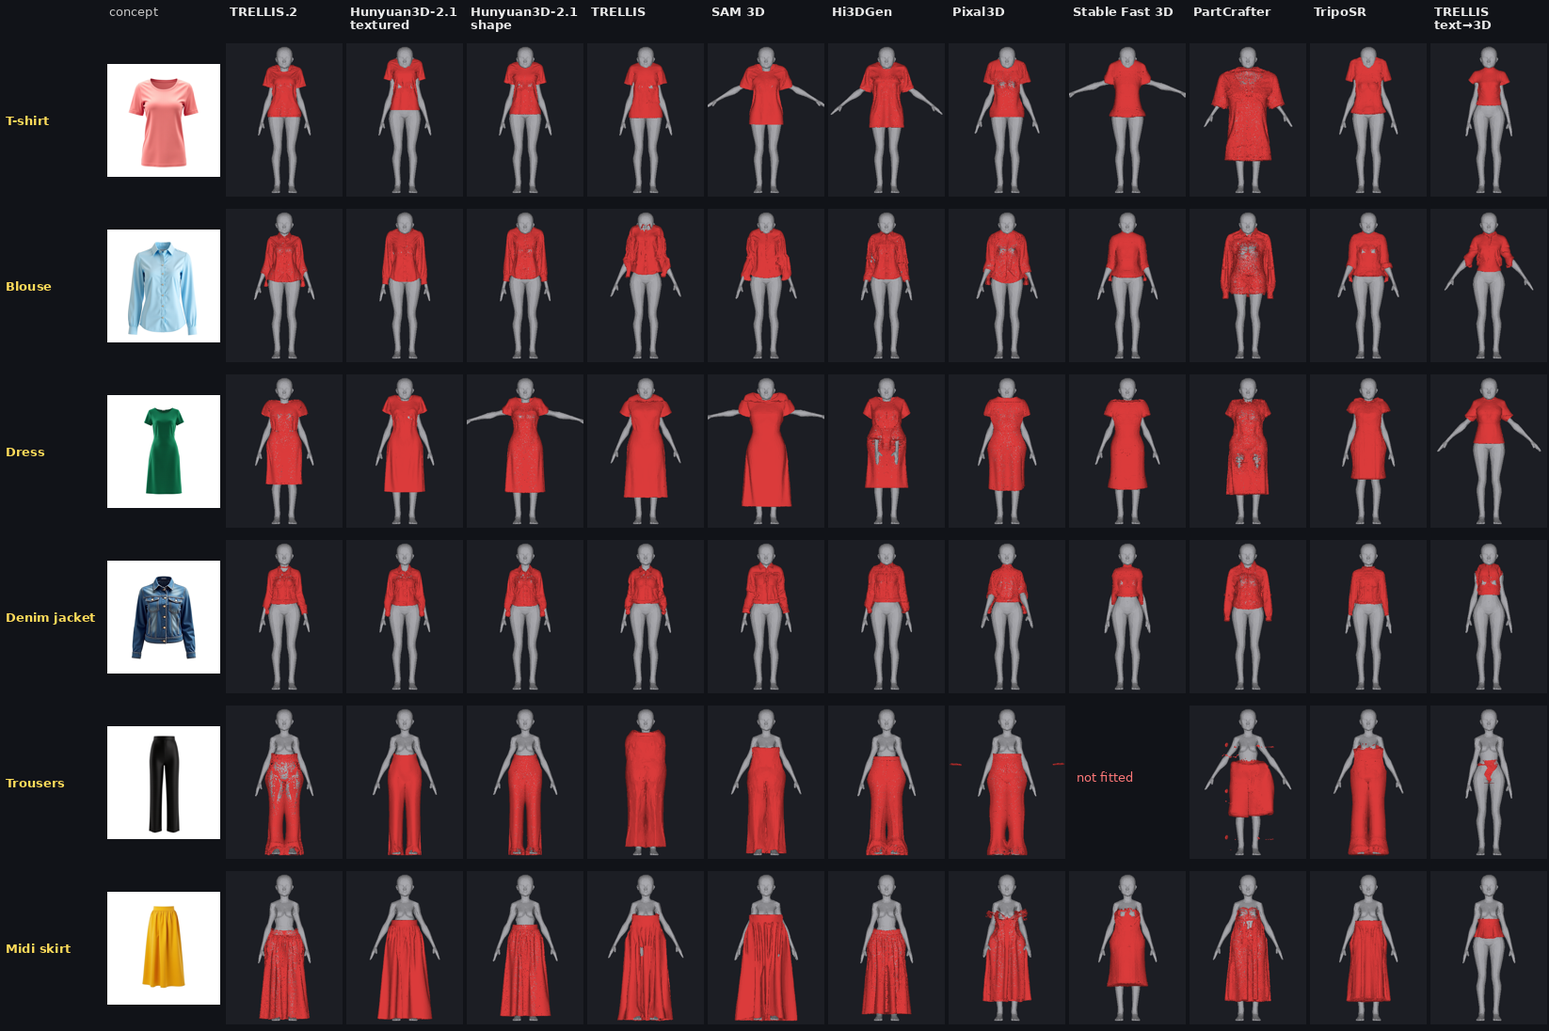
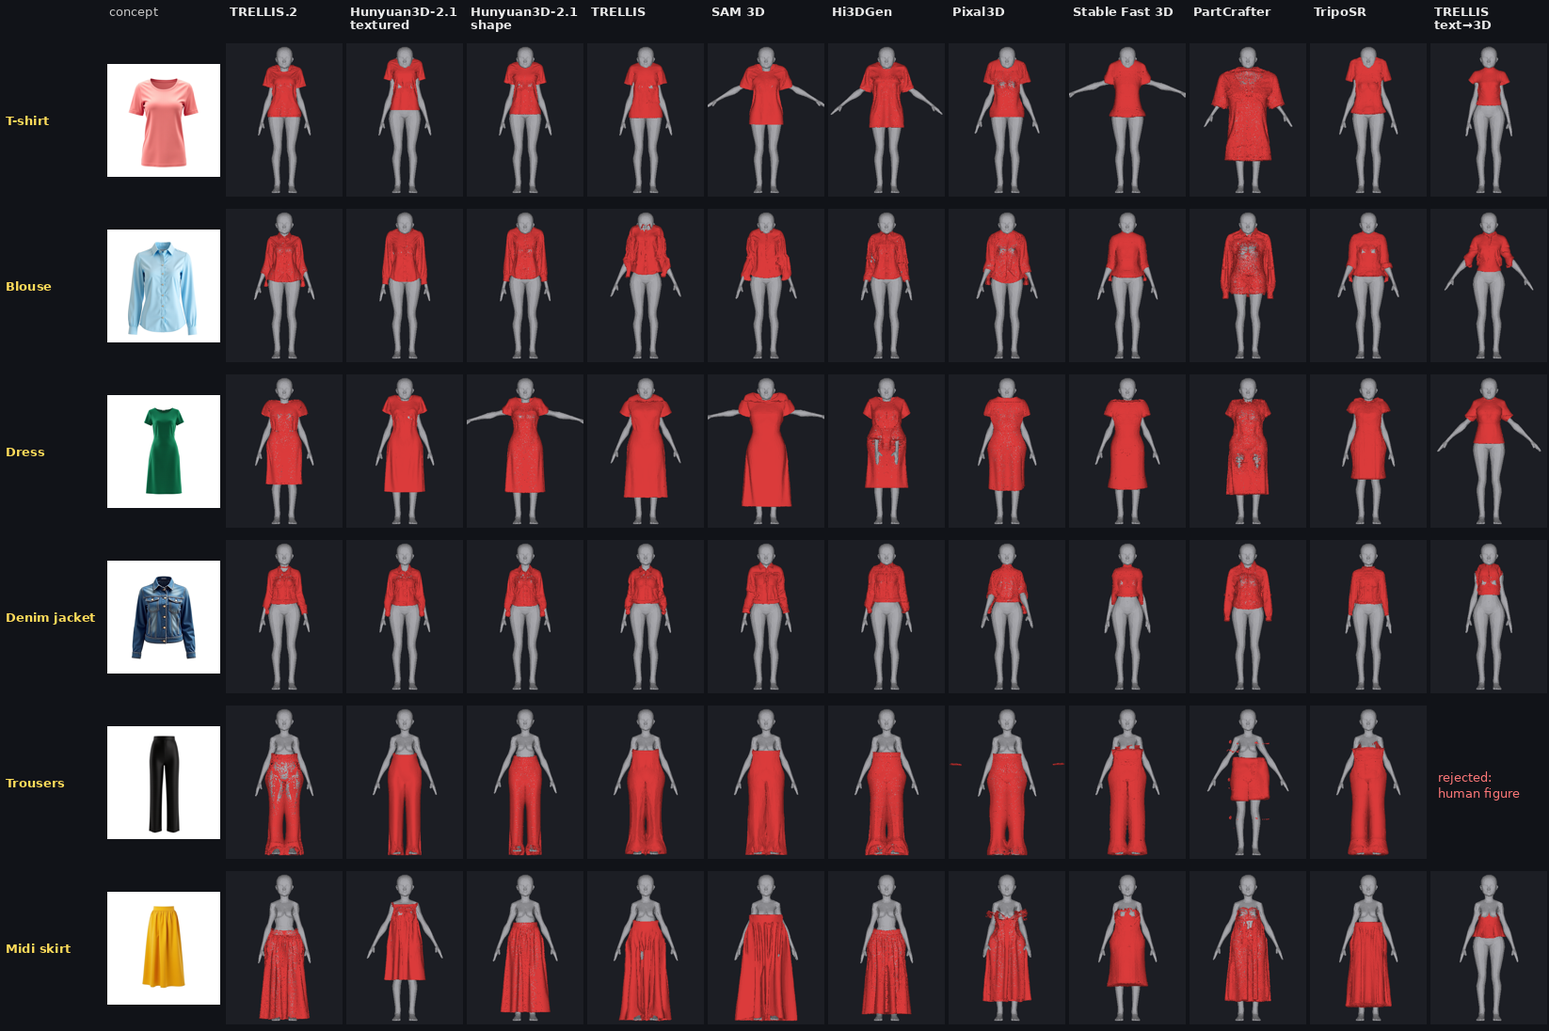
Engine guide (EN/TR) with UltraTex; README and licences updated
- docs/showcase/engine-guide/README.md: every engine on 12 garments + the red dress, dressed
  automatically with the latest fitting code (re-evaluated: 135 dressed), recommendation table,
  per-engine VRAM/time/fit/arm-crossing/licence/verdict, known issues.
- New "Texture from an image: UltraTex (FLUX.2-klein + Qwen3-8B)" section with the red dress and
  six TRELLIS.2 garments (own texture vs UltraTex), usage, install, hardware, licence, limits.
- README: guide link, UltraTex feature + engine row + limits; FLUX.2-klein 9B listed as gated
  and non-commercial in README, docs/LICENSES.md and THIRD_PARTY_LICENSES.md.

diff --git a/docs/showcase/engine-guide/README.md b/docs/showcase/engine-guide/README.md
@@ -1,0 +1,214 @@
+# Engine guide / Motor kılavuzu
+
+**English** · [Türkçe](#türkçe)
+
+## English
+
+Which local engine should you use to turn a garment photo into a 3D model that can be dressed
+on a mannequin? We ran **every installed engine** on the same garments, dressed every result
+automatically with the same code, and compared them side by side.
+
+- **12 garments** (6 women's, 6 men's: t-shirt, blouse/shirt, dress, jacket, trousers,
+  skirt/shorts/kilt), concept images made with FLUX.1-dev, plus the
+  [red "New Look" dress](../red-new-look-dress/README.md).
+- **11 engine modes**, run one after another on 2× RTX 3090 (24 GB). Nothing was adjusted by
+  hand; every garment was dressed on the female or male base mannequin.
+- Images below: front view of the dressed garment (simple preview render, same colour for
+  every engine, so you compare **shape and fit**, not texture).
+
+### Recommendation
+
+| Goal | Engine |
+|---|---|
+| Garments, best overall | **TRELLIS.2** (`trellis2-image`) |
+| Best texture / colour | Hunyuan3D-2.1 textured (`hunyuan-textured`) |
+| Free licence, no gated weights | TRELLIS (`trellis-image`) |
+| Quick look in seconds | TripoSR (`triposr`) |
+| New texture from an image, same shape | UltraTex (`ultratex-retexture`) |
+| Low VRAM (≤ 8 GB) | Hunyuan3D-2.1 shape, Stable Fast 3D, TripoSR |
+
+### Women's garments
+
+![Women's garments through every engine](grid-female.png)
+
+### Men's garments
+
+![Men's garments through every engine](grid-male.png)
+
+### The red dress through every engine
+
+![Red New Look dress, every engine](../red-new-look-dress/14-engines-dressed.png)
+
+### Engines
+
+| Engine (id) | Install | Input | ~VRAM | Time / garment | Dressed | Arm crossing | Gated | Licence | Verdict |
+|---|---|---|---|---|---|---|---|---|---|
+| `trellis2-image` | `trellis2` | photo | ~18 GB | ~80 s | 13/13 | 0.006 | DINOv3 (Meta) | MIT | **Best for garments.** Open surfaces (arm/neck openings stay open), clean shapes, believable back. Some grey blotches in the texture. |
+| `hunyuan-textured` | `hunyuan` | photo | ~22 GB | ~292 s | 12/12 | 0.003 | terms | Tencent Community (non-commercial-ish) | Best texture (PBR, faithful colour). Closed shapes; the back is invented (open back / lump on dresses). |
+| `hunyuan-image` | `hunyuan` | photo | ~8 GB | ~96 s | 13/13 | 0.015 | terms | Tencent Community (non-commercial-ish) | Same clean shape as textured, without texture. Good fast preview of the shape. |
+| `trellis-image` | `trellis` | photo / multi-photo | ~12 GB | ~64 s | 13/13 | 0.003 | no | MIT | Solid all-rounder; fits well. Dark streaks and holes in skirts, weaker texture. |
+| `sam3d-image` | `sam3d` | real photo | ~24 GB | ~111 s | 13/13 | 0.03 | Meta SAM licence | SAM License (conditional) | Good silhouette and fit; colour drifts (red → magenta), sparse mesh. |
+| `hi3dgen-image` | `hi3dgen` | photo / multi-photo | ~14 GB | ~20 s | 13/13 | 0.002 | no | MIT | Sharp geometry, no texture. Garments come out a bit short; straps/collars can crumple. |
+| `pixal3d-image` | `pixal3d` | photo | ~12 GB | ~243 s | 13/13 | 0.029 | DINOv3 (Meta) | MIT | Follows the photo's camera (pixel-aligned): perspective tilt and loose fragments on studio shots. Try `fov` 0.2. |
+| `sf3d-image` | `sf3d` | photo | ~7 GB | ~117 s | 13/13 | 0.022 | Stability (gated) | Stability Community (<$1M) | Fast, PBR; lumpy surface, garments too wide and closed. |
+| `partcrafter-image` | `partcrafter` | photo | ~12 GB | ~119 s | 11/12 | 0.096 | no* | MIT code, NC matte | Splits into parts; boxy garments with loose pieces; sleeves often miss the arms. |
+| `triposr` | `triposr` | photo | ~6 GB | ~5 s | 13/13 | 0.0 | no | MIT | Fastest (seconds); low detail, blobby and closed. Good for a quick check only. |
+| `trellis-text` | `trellis` | text | ~10 GB | ~58 s | 8/12 | 0.005 | no | MIT | Text only. Tops are fine; for trousers/shorts it often makes a *person wearing* them (now rejected with a clear message). |
+
+- **Time** is the median per garment in this run (first-job model loading included). TRELLIS.2:
+  ~40 s shape + texture and ~40 s export with models kept on the GPU (the default now).
+- **Dressed**: garments the automatic fit accepted. Rejections are deliberate (a human figure
+  or a flat model instead of a garment).
+- **Arm crossing**: share of the posed arm surface inside the fabric; 0 = the arms never cut
+  through the garment. Sleeved tops score ~0.05–0.13 because tight sleeves touch the arm.
+- **Gated**: DINOv3 (TRELLIS.2, Pixal3D) and SAM 3D need access approved on Hugging Face;
+  put your Hugging Face token in `.env` as `HF_TOKEN` before installing.
+- Install / run: `bash infra/scripts/engine.sh install <name>` then
+  `bash infra/scripts/start-linux.sh` (starts every installed engine unless `ENABLED_ENGINES`
+  lists a subset).
+
+### Texture from an image: UltraTex (FLUX.2-klein + Qwen3-8B)
+
+UltraTex redraws the **texture** of a model you already have; the shape is not touched. It
+renders the model's surface normals from 6 fixed cameras, and **FLUX.2-klein 9B** with the
+UltraTex LoRA paints a matching albedo for all 6 views at once, guided by one reference image
+(the text encoder is **Qwen3-8B**, always run with an empty prompt). The 6 views are then baked
+back onto the model's UV map.
+
+![Red dress: reference, original texture, UltraTex](ultratex-red-dress.png)
+
+![TRELLIS.2 garments: own texture vs UltraTex](ultratex-garments.png)
+
+What it does well, on these garments: the colour follows the reference much more closely than
+the engines' own textures (yellow skirt instead of mustard, beige chinos instead of grey, white
+shirt instead of lilac), and printed details appear on every side (bomber zip and pockets,
+dress-shirt buttons, the satin sheen and waist seam of the red dress). Shading from the
+reference is baked into the albedo, so the model looks lit even under flat light.
+
+- In the app: **Design → Texture from image (UltraTex)**. Pick a reference image, or leave it
+  empty to use the design's own image. A new design is created; mannequin and measurements are
+  kept, because the geometry is the same.
+- API: `POST /generate/retexture-image` (`source_project_id`, optional `file`).
+- Install: `bash infra/scripts/engine.sh install ultratex`. Weights: FLUX.2-klein-base-9B
+  (accept the BFL licence on Hugging Face), Qwen3-8B (Apache-2.0), FLUX.2 VAE (Comfy-Org
+  copy), UltraTex LoRA + decoder (ModelScope), about 35 GB in total.
+- Hardware: made for one 80 GB card. On **2× 24 GB** the worker splits the work: Qwen3-8B
+  encodes once on the second card and is freed, then half of the DiT blocks move there.
+  1024 px per view takes **5–9 min** per garment. One 24 GB card is not enough at 1024.
+- Licence: code MIT; FLUX.2-klein weights under the BFL licence (**non-commercial**).
+- Limits: parts no camera sees (inside the neckline, under the arms) get the old texture or the
+  nearest colour; a reference that shows only the front means the back is invented.
+
+### Known issues
+
+- Tight sleeves on jackets and shirts still touch the arm.
+- Generated trousers often have narrow hips; the fit keeps them at the waist and pushes the
+  hips out, which can leave a bulge at the back.
+- Hunyuan3D's kilt is placed like a tube top on the chest.
+- Single-photo engines invent the back; a multi-view input (front/side/back) is the next step.
+- UltraTex is slow on 24 GB cards and needs two of them.
+
+## Türkçe
+
+Bir kıyafet fotoğrafını mankene giydirilebilen 3D modele çevirmek için hangi yerel motoru
+kullanmalı? **Kurulu tüm motorları** aynı kıyafetlerle çalıştırdık, her sonucu aynı kodla
+otomatik giydirdik ve yan yana karşılaştırdık.
+
+- **12 kıyafet** (6 kadın, 6 erkek: tişört, bluz/gömlek, elbise, ceket, pantolon,
+  etek/şort/kilt), konsept görseller FLUX.1-dev ile; ayrıca
+  [kırmızı "New Look" elbise](../red-new-look-dress/README.md).
+- **11 motor modu**, 2× RTX 3090 (24 GB) üzerinde sırayla. Elle hiçbir ayar yapılmadı; her
+  kıyafet kadın ya da erkek taban mankene giydirildi.
+- Aşağıdaki görseller: giydirilmiş kıyafetin önden görünümü (basit önizleme render'ı, her
+  motorda aynı renk; yani **şekil ve oturuşu** karşılaştırırsınız, dokuyu değil).
+
+### Öneri
+
+| Amaç | Motor |
+|---|---|
+| Kıyafet, genel en iyi | **TRELLIS.2** (`trellis2-image`) |
+| En iyi doku / renk | Hunyuan3D-2.1 dokulu (`hunyuan-textured`) |
+| Serbest lisans, erişim izni yok | TRELLIS (`trellis-image`) |
+| Saniyeler içinde hızlı bakış | TripoSR (`triposr`) |
+| Aynı şekle görselden yeni doku | UltraTex (`ultratex-retexture`) |
+| Düşük VRAM (≤ 8 GB) | Hunyuan3D-2.1 şekil, Stable Fast 3D, TripoSR |
+
+### Kadın kıyafetleri
+
+![Kadın kıyafetleri tüm motorlarda](grid-female.png)
+
+### Erkek kıyafetleri
+
+![Erkek kıyafetleri tüm motorlarda](grid-male.png)
+
+### Kırmızı elbise tüm motorlarda
+
+![Kırmızı New Look elbise, tüm motorlar](../red-new-look-dress/14-engines-dressed.png)
+
+### Motorlar
+
+| Motor (id) | Kurulum | Girdi | ~VRAM | Süre / kıyafet | Giydirilen | Kol kesişmesi | Erişim izni | Lisans | Değerlendirme |
+|---|---|---|---|---|---|---|---|---|---|
+| `trellis2-image` | `trellis2` | photo | ~18 GB | ~80 sn | 13/13 | 0.006 | DINOv3 (Meta) | MIT | **Kıyafet için en iyisi.** Açık yüzey (kol/boyun ağzı açık kalır), temiz şekil, inandırıcı sırt. Dokuda yer yer gri lekeler. |
+| `hunyuan-textured` | `hunyuan` | photo | ~22 GB | ~292 sn | 12/12 | 0.003 | terms | Tencent Community (non-commercial-ish) | En iyi doku (PBR, renk sadık). Kapalı şekil; sırtı uyduruyor (elbisede açık sırt / kütle). |
+| `hunyuan-image` | `hunyuan` | photo | ~8 GB | ~96 sn | 13/13 | 0.015 | terms | Tencent Community (non-commercial-ish) | Dokulu sürümle aynı temiz şekil, dokusuz. Şekli hızlı görmek için iyi. |
+| `trellis-image` | `trellis` | photo / multi-photo | ~12 GB | ~64 sn | 13/13 | 0.003 | no | MIT | Sağlam, genel amaçlı; iyi oturuyor. Eteklerde koyu çizgi ve delik, doku zayıf. |
+| `sam3d-image` | `sam3d` | real photo | ~24 GB | ~111 sn | 13/13 | 0.03 | Meta SAM licence | SAM License (conditional) | Silüet ve oturma iyi; renk kayıyor (kırmızı → macenta), seyrek mesh. |
+| `hi3dgen-image` | `hi3dgen` | photo / multi-photo | ~14 GB | ~20 sn | 13/13 | 0.002 | no | MIT | Keskin geometri, dokusuz. Kıyafetler biraz kısa; askı/yaka buruşabiliyor. |
+| `pixal3d-image` | `pixal3d` | photo | ~12 GB | ~243 sn | 13/13 | 0.029 | DINOv3 (Meta) | MIT | Fotoğrafın kamerasını izliyor (piksel hizalı): stüdyo görselinde perspektif eğimi ve kopuk parçalar. `fov` 0.2 deneyin. |
+| `sf3d-image` | `sf3d` | photo | ~7 GB | ~117 sn | 13/13 | 0.022 | Stability (gated) | Stability Community (<$1M) | Hızlı, PBR; yüzey topak topak, kıyafet geniş ve kapalı. |
+| `partcrafter-image` | `partcrafter` | photo | ~12 GB | ~119 sn | 11/12 | 0.096 | no* | MIT code, NC matte | Parçalara ayırıyor; kutu gibi kıyafet, kopuk parçalar; kollar kolluğa çoğu zaman girmiyor. |
+| `triposr` | `triposr` | photo | ~6 GB | ~5 sn | 13/13 | 0.0 | no | MIT | En hızlı (saniyeler); az detay, şişkin ve kapalı. Yalnız hızlı kontrol için. |
+| `trellis-text` | `trellis` | text | ~10 GB | ~58 sn | 8/12 | 0.005 | no | MIT | Yalnız metin. Üstler iyi; pantolon/şortta çoğu zaman onları *giyen bir insan* üretiyor (artık net mesajla reddediliyor). |
+
+- **Süre**: bu koşudaki kıyafet başına medyan (ilk işin model yüklemesi dahil). TRELLIS.2:
+  modeller GPU'da tutulunca (artık varsayılan) ~40 sn şekil + doku ve ~40 sn dışa aktarma.
+- **Giydirilen**: otomatik oturtmanın kabul ettiği kıyafetler. Retler bilinçli (kıyafet yerine
+  insan figürü ya da yatık model).
+- **Kol kesişmesi**: pozlu kol yüzeyinin kumaş içinde kalan oranı; 0 = kollar kumaşı hiç
+  kesmiyor. Kolluklu üstlerde dar kolluk kola değdiği için ~0.05–0.13.
+- **Erişim izni**: DINOv3 (TRELLIS.2, Pixal3D) ve SAM 3D için Hugging Face'te erişim onayı
+  gerekir; kurmadan önce Hugging Face token'ınızı `.env` dosyasına `HF_TOKEN` olarak yazın.
+- Kurulum / çalıştırma: `bash infra/scripts/engine.sh install <ad>`, ardından
+  `bash infra/scripts/start-linux.sh` (`ENABLED_ENGINES` bir alt küme vermedikçe kurulu tüm
+  motorları başlatır).
+
+### Görselden doku: UltraTex (FLUX.2-klein + Qwen3-8B)
+
+UltraTex elinizdeki modelin **dokusunu** yeniden çizer; şekle dokunmaz. Modelin yüzey
+normallerini 6 sabit kameradan render eder; **FLUX.2-klein 9B** ve UltraTex LoRA'sı tek bir
+referans görsele bakarak 6 görünümün albedo'sunu birlikte boyar (metin kodlayıcı
+**Qwen3-8B**, prompt hep boş). Ardından 6 görünüm modelin UV dokusuna geri işlenir.
+
+![Kırmızı elbise: referans, orijinal doku, UltraTex](ultratex-red-dress.png)
+
+![TRELLIS.2 kıyafetleri: kendi dokusu ve UltraTex](ultratex-garments.png)
+
+Bu kıyafetlerde iyi yaptığı: renk, motorların kendi dokusuna göre referansa çok daha yakın
+(hardal yerine sarı etek, gri yerine bej chino, lila yerine beyaz gömlek) ve detaylar her
+yüzde çıkıyor (bomber fermuarı ve cepleri, gömlek düğmeleri, kırmızı elbisenin saten parlaklığı
+ve bel dikişi). Referanstaki gölgelendirme albedo'ya işleniyor; model düz ışıkta da ışıklı
+görünür.
+
+- Uygulamada: **Tasarım → Görselden doku (UltraTex)**. Bir referans görsel seçin ya da boş
+  bırakın (tasarımın kendi görseli kullanılır). Yeni bir tasarım açılır; geometri aynı olduğu
+  için manken ve ölçüler korunur.
+- API: `POST /generate/retexture-image` (`source_project_id`, isteğe bağlı `file`).
+- Kurulum: `bash infra/scripts/engine.sh install ultratex`. Ağırlıklar: FLUX.2-klein-base-9B
+  (Hugging Face'te BFL lisansını kabul edin), Qwen3-8B (Apache-2.0), FLUX.2 VAE (Comfy-Org
+  kopyası), UltraTex LoRA + decoder (ModelScope); toplam ~35 GB.
+- Donanım: tek 80 GB kart için yapılmış. **2× 24 GB**'ta worker işi böler: Qwen3-8B ikinci
+  kartta bir kez kodlayıp bırakılır, ardından DiT bloklarının yarısı oraya taşınır. Görünüm
+  başına 1024 px ile kıyafet başına **5–9 dk**. Tek 24 GB kart 1024'te yetmez.
+- Lisans: kod MIT; FLUX.2-klein ağırlıkları BFL lisansı (**ticari değil**).
+- Sınırlar: hiçbir kameranın görmediği yerler (yaka içi, koltuk altı) eski dokudan ya da en
+  yakın renkten doldurulur; referans yalnız önü gösteriyorsa sırt uydurulur.
+
+### Bilinen sorunlar
+
+- Ceket ve gömleklerde dar kolluk hâlâ kola değiyor.
+- Üretilen pantolonların kalçası çoğu zaman dar; oturtma pantolonu belde tutup kalçayı dışa
+  itiyor, arkada şişkinlik kalabiliyor.
+- Hunyuan3D'nin kilti göğse tüp gibi yerleşiyor.
+- Tek fotoğraftan çalışan motorlar sırtı uyduruyor; sıradaki adım çok-görünümlü girdi (ön/yan/arka).
+- UltraTex 24 GB kartlarda yavaş ve iki kart istiyor.

diff --git a/README.md b/README.md
@@ -19,6 +19,7 @@ toggle.
 - [Installing engines](#installing-engines)
 - [Features](#features)
 - [Engines & licenses](#engines--licenses)
+- [Engine guide: which engine for garments?](docs/showcase/engine-guide/README.md)
 - [Architecture overview](#architecture-overview)
 - [API overview](#api-overview)
 - [Known limits](#known-limits)
@@ -106,7 +107,7 @@ infra/scripts/engine.sh run <name> [GPU]  # run one worker in the foreground (de
   known-good set in `infra/engines/locks/`.
 - CUDA extensions are compiled for **your** GPU (architecture auto-detected via
   `nvidia-smi`; override with `TORCH_CUDA_ARCH_LIST`).
-- **Gated** engines (FLUX, SF3D, Hunyuan, SAM 3D, MeshFlow, World Tracing) need the
+- **Gated** engines (FLUX, UltraTex, SF3D, Hunyuan, SAM 3D, MeshFlow, World Tracing) need the
   license accepted on Hugging Face and `HF_TOKEN` in `.env`; then
   `engine.sh weights <name>`.
 - `start-linux.sh` starts every installed engine (`ENABLED_ENGINES=auto`) or only
@@ -136,10 +137,18 @@ Everything below is implemented in this repo. Some engines are **gated** or
   **Hunyuan multi-view** _(gated)_).
 - Each engine exposes **fast / balanced / quality** presets plus advanced
   parameters (steps, CFG, seed, texture size, …) surfaced in the UI.
+- **Which engine?** The [engine guide](docs/showcase/engine-guide/README.md) runs every
+  engine on the same 12 garments, dresses each result automatically and compares them
+  side by side (short answer: **TRELLIS.2** for garments, **Hunyuan3D textured** for the
+  best texture).
 
 ### Texture & paint
 
 - **Full re-texture** — regenerate the whole surface from a prompt (**InTeX**).
+- **Texture from an image** _(gated)_ — give a reference photo and **UltraTex**
+  (**FLUX.2-klein 9B** + **Qwen3-8B**) repaints the model from 6 angles and bakes a
+  new 2K texture; the shape stays the same. Needs 2× 24 GB (or one 80 GB card); see
+  the [engine guide](docs/showcase/engine-guide/README.md#texture-from-an-image-ultratex-flux2-klein--qwen3-8b).
 - **Region brush re-texture** — brush a region on the model and regenerate just
   that area.
 - **FLUX motif decals** _(gated)_ — generate a 2D motif from a prompt, matte it
@@ -241,11 +250,12 @@ during model load, not a crash at startup.
 - **Set `HF_TOKEN=` in `.env`** (from
   [huggingface.co/settings/tokens](https://huggingface.co/settings/tokens)) before
   fetching gated repos. Gated / non-commercial examples: **FLUX.1-dev**,
+  **FLUX.2-klein-base-9B** (UltraTex),
   **DINOv3**, **SMPL-X**, **SF3D**, **SAM3D**, **meshflow**, **world-tracing**,
   **Hunyuan** (accept terms).
 
 > ⚠ **Code license ≠ weight license.** Our MIT app license does **not** cover the
-> models. Some engines are non-commercial (FLUX.1-dev, meshflow, world-tracing,
+> models. Some engines are non-commercial (FLUX.1-dev, FLUX.2-klein 9B, meshflow, world-tracing,
 > SMPL/SMPL-X, RMBG-1.4), some are source-available with commercial conditions
 > (Hunyuan3D, SF3D, SAM3D). **Do not assume the MIT badge lets you use every engine
 > commercially.**
@@ -265,6 +275,7 @@ during model load, not a crash at startup.
 | `hunyuan-mv` | multi-view → 3D | ~10 GB | terms | Tencent Community · non-commercial-ish |
 | `sam3d-image` | real-photo → 3D + tex | ~24 GB | ✓ | Meta SAM License · conditional |
 | `intex-retexture` | re-texture / region brush | ~8 GB | no | InTeX (no license) · SD1.5 OpenRAIL-M |
+| `ultratex-retexture` | texture from a reference image (6 views → UV) | 2× 24 GB | ✓ FLUX.2-klein | MIT code · FLUX.2-klein **non-commercial** · Qwen3-8B Apache-2.0 |
 | `flux-motif` | 2D motif → decal / bake | ~16 GB | ✓ | FLUX.1-dev · **non-commercial** |
 | `worldtracing-image` | image → 3D | ~12 GB | ✓ | CC BY-NC-ND · **non-commercial** |
 | `meshflow-refine` | remesh / clean topology | ~10 GB | ✓ | FAIR NC · **non-commercial** |
@@ -340,6 +351,8 @@ assets so phones can fetch them without an auth header.
   patterns for anything you will actually cut.
 - **Several engines are gated / non-commercial** and stay locked until you accept
   their licenses and download weights.
+- **UltraTex** was built for an 80 GB GPU; on 2× 24 GB it takes 5–9 minutes per model
+  and uses both cards while it runs.
 - `flex4dhuman-4d` and `pixworld-scene` are placeholders (no upstream release yet).
 
 ---

diff --git a/docs/LICENSES.md b/docs/LICENSES.md
@@ -19,9 +19,10 @@ governs redistribution of the checkpoints.
   (Tencent Community, region + 1M-MAU limits), SF3D (Stability Community, <$1M/yr +
   register), SAM3D-Objects (Meta SAM License, ITAR/no-military conditions), SD1.5
   (OpenRAIL-M use-restrictions).
-- **NON-COMMERCIAL — do not use in a commercial product:** FLUX.1-dev, meshflow,
+- **NON-COMMERCIAL — do not use in a commercial product:** FLUX.1-dev, FLUX.2-klein-base-9B
+  (UltraTex), meshflow,
   world-tracing, mip-splatting, briaai/RMBG-1.4, SMPL/SMPL-X.
-- **Gated (accept license + token before download):** SF3D, FLUX.1-dev, meshflow,
+- **Gated (accept license + token before download):** SF3D, FLUX.1-dev, FLUX.2-klein-base-9B, meshflow,
   DINOv3, world-tracing weights, SAM3D, SMPL-X, briaai/RMBG-1.4, Hunyuan (accept
   terms).
 - **No license / exclude from redistribution:** InTeX source, Flex4DHuman.
@@ -51,6 +52,7 @@ governs redistribution of the checkpoints.
 | **SMPL-X** (MPI-IS) | SMPL-X / SMPL Model License (Max-Planck) | **prohibited** under research license; commercial needs a separate MPI license | **prohibited** — .pkl files MUST NOT be redistributed | ✓ | Do NOT vendor body_models/smpl/*.pkl (strip from history). User registers at smpl-x.is.tue.mpg.de. |
 | **TRELLIS.2-4B** (microsoft/TRELLIS.2-4B) | MIT | yes | allowed | no | Permissive — safe to reference/integrate commercially and auto-download; but the textured worker pulls GATED DINOv3. |
 | **Pixal3D** (TencentARC/Pixal3D) | MIT | yes | allowed | no (card sets `extra_gated_eu_disallowed`) | Runs on the TRELLIS.2 stack; loads GATED DINOv3 (official repo, not the upstream mirror) and MoGe-2 (MIT) for the camera. Background removal: open BiRefNet (MIT) instead of the gated, non-commercial briaai/RMBG-2.0. |
+| **UltraTex** (yiboz2001/UltraTex; LoRA + decoder Yibo-Zhang/UltraTex on ModelScope) | MIT (code) | code yes; base model no | LoRA/decoder downloaded from ModelScope, not vendored | via FLUX.2-klein | Image-guided retexturing (`ultratex-retexture`). Runs on **FLUX.2-klein-base-9B** (Black Forest Labs, FLUX Non-Commercial License, gated on Hugging Face → **non-commercial**), **Qwen3-8B** text encoder (Apache-2.0) and the FLUX.2 VAE (Comfy-Org copy of the BFL VAE). |
 | **Base mannequins** (in-house, generated with TRELLIS) | CC0 1.0 (public domain) | yes (no restrictions) | allowed (public domain) | no | Four A/T-pose body GLBs for the mannequin overlay, dressing and 3D sewing. Shipped in `data/templates/mannequins/` (~5 MB). Custom mannequins built from user measurements are generated at runtime and never committed. |
 | **passlib** (PyPI) | BSD-3-Clause | yes | allowed | no | Gateway auth password hashing (BATCH-B). |
 | **bcrypt** (PyPI, `<4.1` pin) | Apache-2.0 | yes | allowed | no | passlib bcrypt backend; 4.1+ passlib 1.7.4 ile uyumsuz — pin zorunlu. |

diff --git a/THIRD_PARTY_LICENSES.md b/THIRD_PARTY_LICENSES.md
@@ -71,6 +71,10 @@ the full commercial/gated/weight-distribution matrix see
   vendor.
 - **Pixal3D** — MIT, © Tencent ARC / Tsinghua. Code + weights (TencentARC/Pixal3D),
   downloaded at install / first run. Uses MoGe-2 (MIT) for camera estimation.
+- **UltraTex** — MIT code (yiboz2001/UltraTex), LoRA + decoder from ModelScope
+  (Yibo-Zhang/UltraTex). Base model **FLUX.2-klein-base-9B** — FLUX Non-Commercial License
+  (Black Forest Labs), gated; text encoder **Qwen3-8B** — Apache-2.0 (Alibaba Qwen). Weights
+  are downloaded at install, never bundled.
 - **BiRefNet** (ZhengPeng7/BiRefNet) — MIT. Background removal for `trellis2-image` and
   `pixal3d-image` (replaces the gated, non-commercial briaai/RMBG-2.0 default).
 
